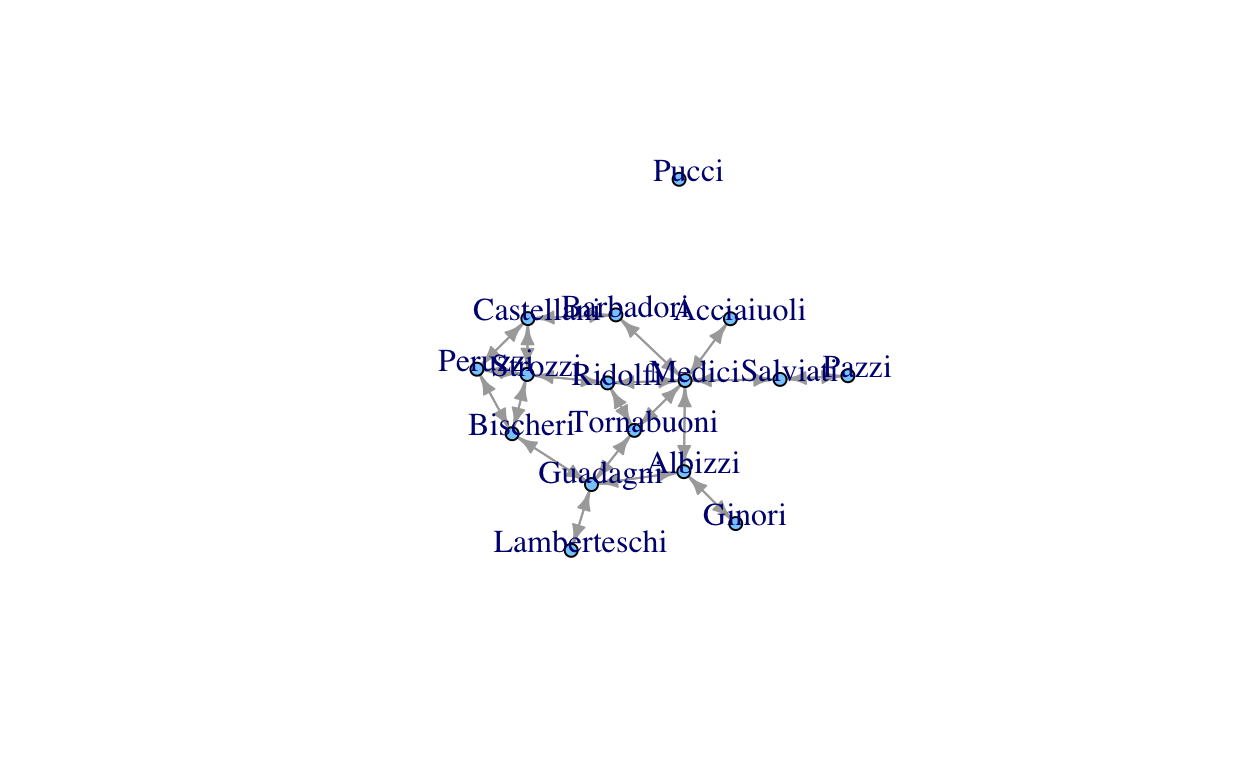
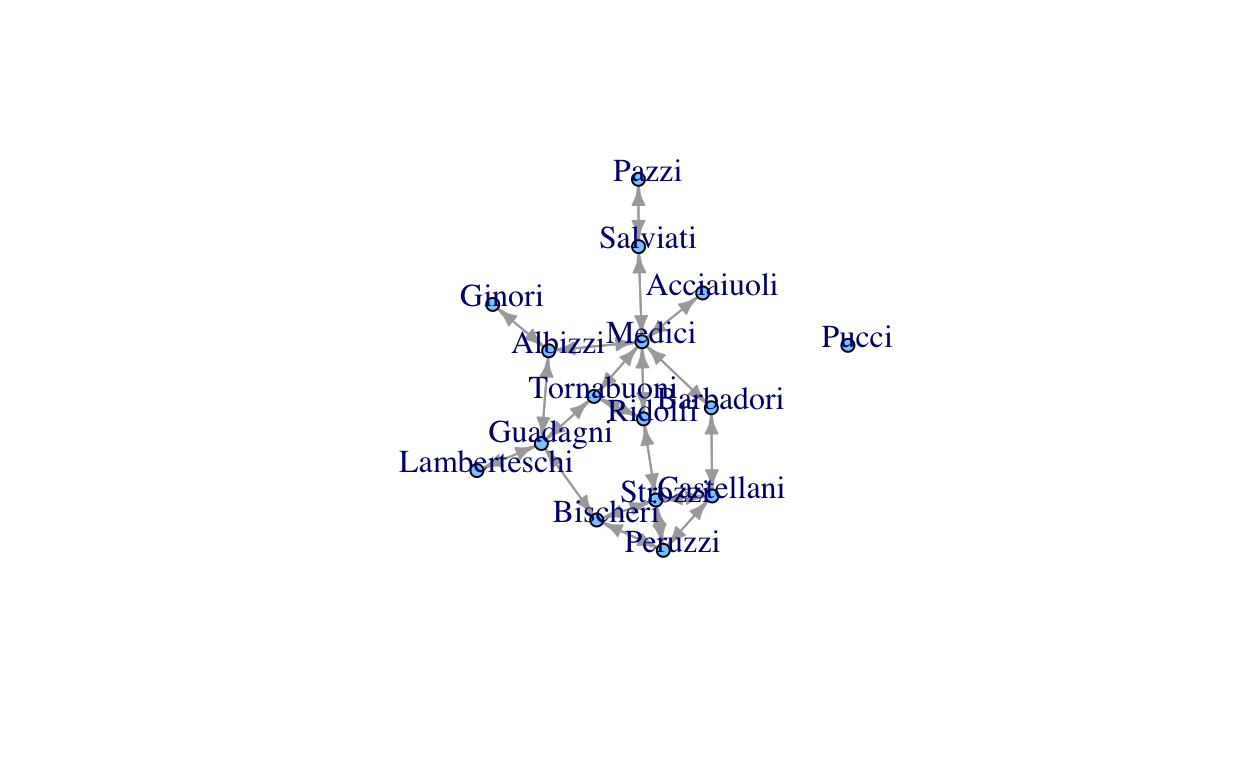
oijuoijoihjoihoijoiuho

Changed region(s): [[0.3125, 0.1875, 0.7188, 0.7188]]

diff --git a/docs/_posts/2022-01-31-the-sharpe-ratio/Homework_2_Noah_Milstein.html b/docs/_posts/2022-01-31-the-sharpe-ratio/Homework_2_Noah_Milstein.html
@@ -1493,7 +1493,8 @@ code span.wa { color: #5e5e5e; font-style: italic; } /* Warning */
 <p>Network size for the Florentine Family network dataset is described briefly by the code below:</p>
 <div class="layout-chunk" data-layout="l-body">
 <div class="sourceCode">
-<pre class="sourceCode r"><code class="sourceCode r"><span class='co'># I access the florentine families dataset through the package "network"</span>
+<pre class="sourceCode r"><code class="sourceCode r"><span class='fu'><a href='https://rdrr.io/r/base/Random.html'>set.seed</a></span><span class='op'>(</span><span class='fl'>2</span><span class='op'>)</span>
+<span class='co'># I access the florentine families dataset through the package "network"</span>
 
 <span class='fu'><a href='https://rdrr.io/r/utils/data.html'>data</a></span><span class='op'>(</span><span class='va'>flo</span>, package<span class='op'>=</span><span class='st'>"network"</span><span class='op'>)</span>
 
@@ -1678,7 +1679,7 @@ $null
 <pre class="sourceCode r"><code class="sourceCode r"><span class='fu'>V</span><span class='op'>(</span><span class='va'>florentine</span><span class='op'>)</span><span class='op'>[</span><span class='fu'><a href='https://rdrr.io/r/base/c.html'>c</a></span><span class='op'>(</span><span class='st'>"Peruzzi"</span>,<span class='st'>"Lamberteschi"</span>, <span class='st'>"Ginori"</span><span class='op'>)</span><span class='op'>]</span>
 </code></pre>
 </div>
-<pre><code>+ 3/16 vertices, named, from 37cb29d:
+<pre><code>+ 3/16 vertices, named, from 8a0479b:
 [1] Peruzzi      Lamberteschi Ginori      </code></pre>
 </div>
 <h4 id="network-distances">Network Distances</h4>

diff --git a/docs/posts/2022-01-31-the-sharpe-ratio/index.html b/docs/posts/2022-01-31-the-sharpe-ratio/index.html
@@ -2128,7 +2128,8 @@ document.addEventListener('DOMContentLoaded', function() {
 <p>Network size for the Florentine Family network dataset is described briefly by the code below:</p>
 <div class="layout-chunk" data-layout="l-body">
 <div class="sourceCode">
-<pre class="sourceCode r"><code class="sourceCode r"><span class='co'># I access the florentine families dataset through the package "network"</span>
+<pre class="sourceCode r"><code class="sourceCode r"><span class='fu'><a href='https://rdrr.io/r/base/Random.html'>set.seed</a></span><span class='op'>(</span><span class='fl'>2</span><span class='op'>)</span>
+<span class='co'># I access the florentine families dataset through the package "network"</span>
 
 <span class='fu'><a href='https://rdrr.io/r/utils/data.html'>data</a></span><span class='op'>(</span><span class='va'>flo</span>, package<span class='op'>=</span><span class='st'>"network"</span><span class='op'>)</span>
 
@@ -2313,7 +2314,7 @@ $null
 <pre class="sourceCode r"><code class="sourceCode r"><span class='fu'>V</span><span class='op'>(</span><span class='va'>florentine</span><span class='op'>)</span><span class='op'>[</span><span class='fu'><a href='https://rdrr.io/r/base/c.html'>c</a></span><span class='op'>(</span><span class='st'>"Peruzzi"</span>,<span class='st'>"Lamberteschi"</span>, <span class='st'>"Ginori"</span><span class='op'>)</span><span class='op'>]</span>
 </code></pre>
 </div>
-<pre><code>+ 3/16 vertices, named, from 37cb29d:
+<pre><code>+ 3/16 vertices, named, from 8a0479b:
 [1] Peruzzi      Lamberteschi Ginori      </code></pre>
 </div>
 <h4 id="network-distances">Network Distances</h4>
